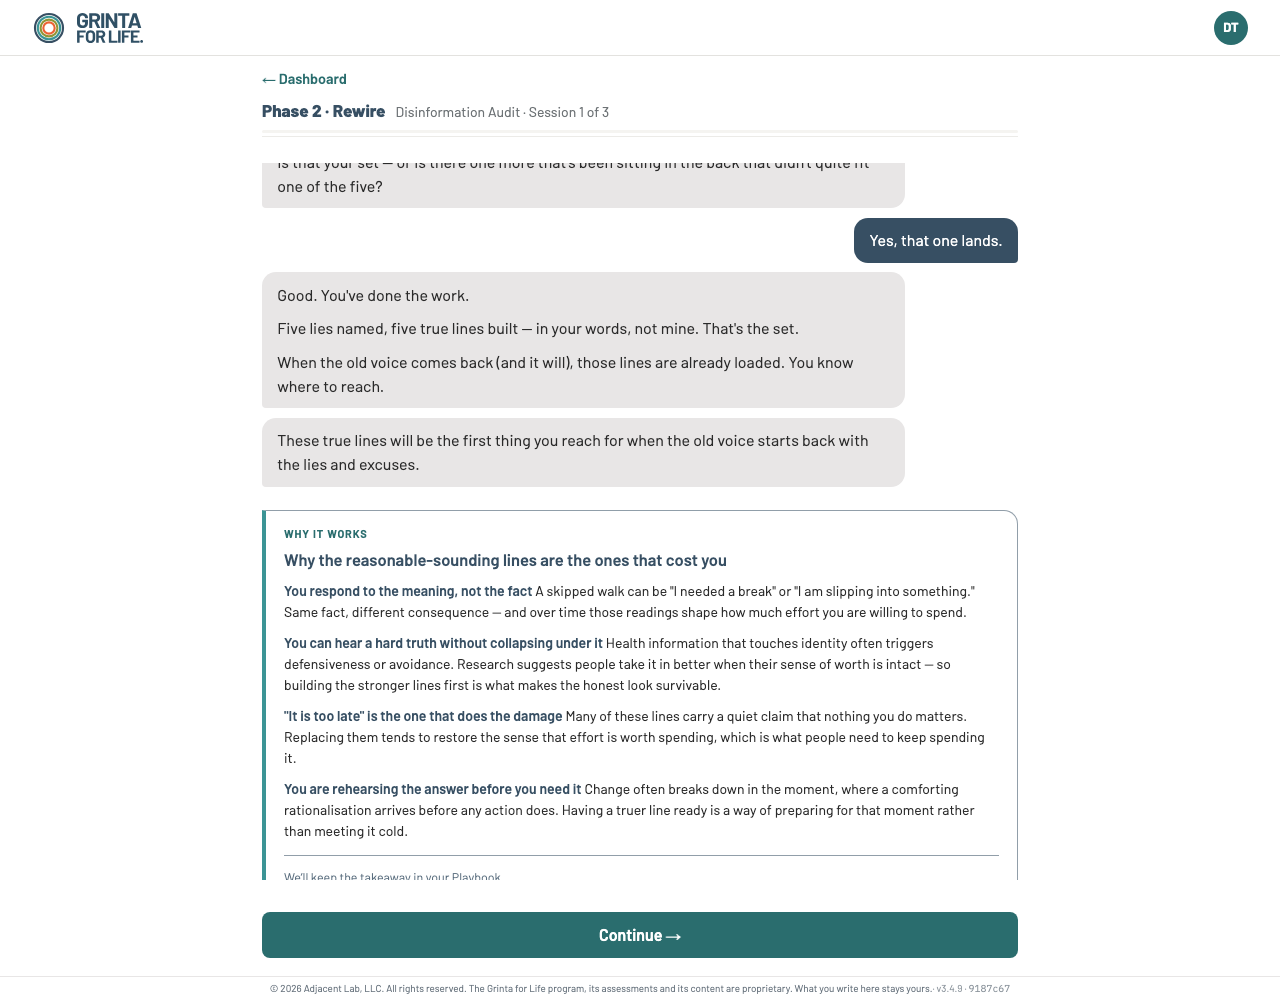
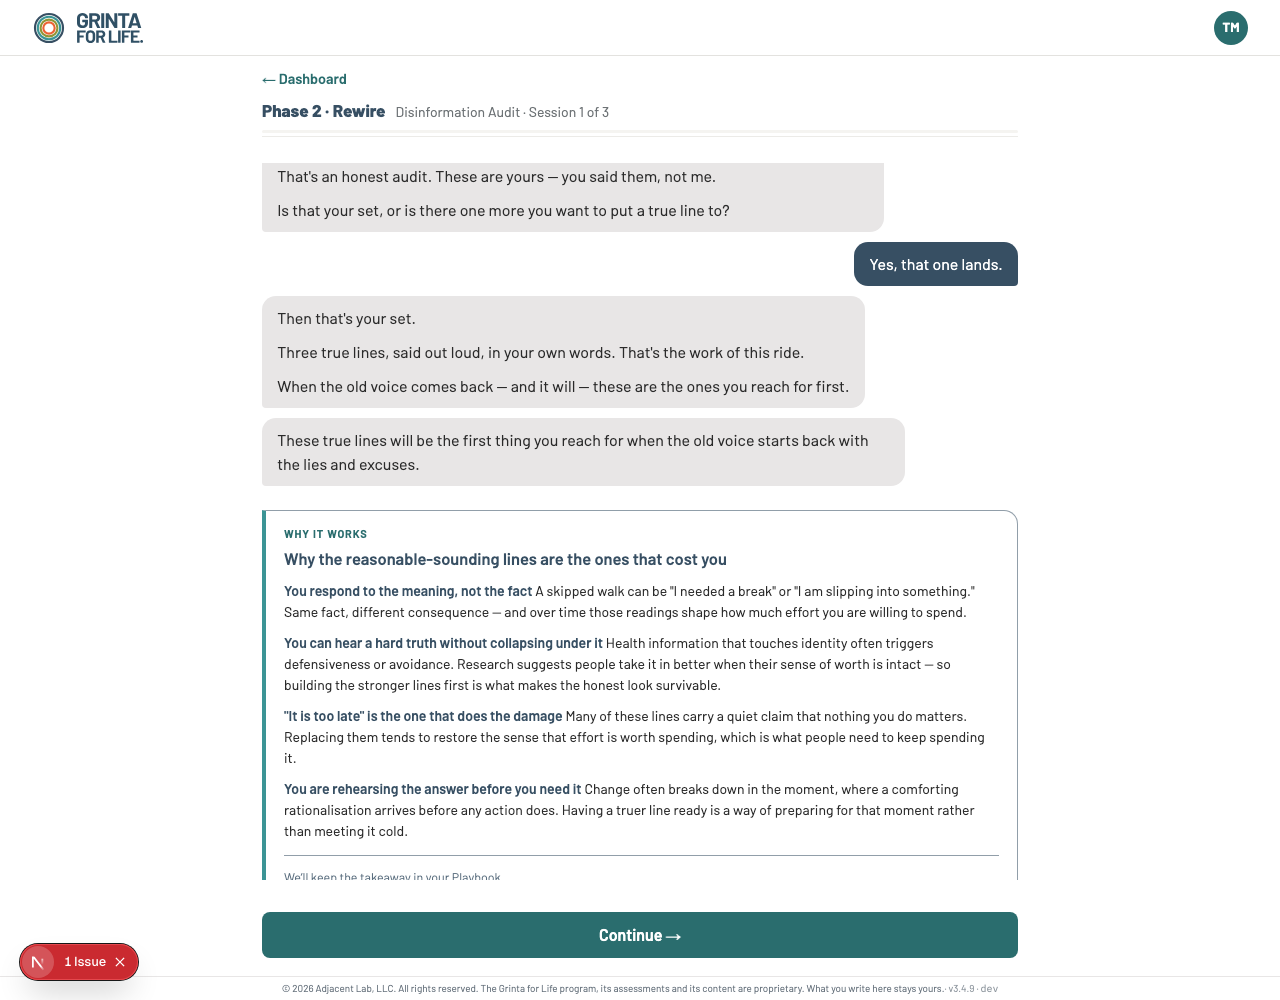
Leaving a Session waits for the filing; reading never does
Jay, 2026-08-18: 'some members may not be as patient/persistent as you in going back twice on
something that wasn't showing up.' That is the right standard. The card promises, in the
member's own view, that the takeaway is kept in their Playbook — a promise cannot be
EVENTUALLY true.

The filing was pure fire-and-forget on the reasoning that nobody should wait for bookkeeping.
Right about reading, wrong about leaving: tapping 'Got it' and immediately continuing raced
the write against the navigation, so a member could open their Playbook and find the takeaway
absent, then present later.

The gate still releases the instant they tap — nothing about reading changes. Only the click
that NAVIGATES waits, and almost always on an already-resolved promise. Capped at 4s so a
slow write can never trap someone at a finished Session; the server-side verification and
logging still catch a write that genuinely failed.

Wired in all three arcs that have a hand-home. Reconnect has none (it flows into the
ceremony) and does not file from the card.

diff --git a/app/workspace/use-teaching.ts b/app/workspace/use-teaching.ts
@@ -1,6 +1,6 @@
 'use client';
 
-import { useState } from 'react';
+import { useRef, useState } from 'react';
 import { teachingFor, teachingSourceLabel } from '../../lib/content/teaching.ts';
 import { keepScienceAction } from './actions.ts';
 import { notifyArtifactCommitted } from '../components/artifact-refresh.ts';
@@ -25,6 +25,11 @@ export type Teaching = {
   taught: boolean;
   /** Call from the Understand card's "Got it →". Releases the gate and files the read. */
   acknowledge: () => void;
+  /**
+   * Await the filing before leaving the Session. Resolves immediately when there is nothing in flight, which is
+   * the common case — the write has usually finished while the member was reading the card.
+   */
+  flushKeep: () => Promise<void>;
 };
 
 export function useTeaching(memberId: string, sessionKey: SessionKey, stage?: string | null): Teaching {
@@ -33,13 +38,36 @@ export function useTeaching(memberId: string, sessionKey: SessionKey, stage?: st
   // renders, which is a gate whose key is never issued.
   const [taught, setTaught] = useState(() => !teaches);
 
+  // The in-flight filing. Held so LEAVING can wait on it — see flushKeep.
+  const pending = useRef<Promise<unknown> | null>(null);
+
   const acknowledge = () => {
-    setTaught(true); // release immediately — the filing is not something the member should wait on
-    // Fire-and-forget. The action verifies its own write and logs server-side if the row vanished, so a silent
-    // drop surfaces in the logs rather than trapping someone at a finished Session.
-    void keepScienceAction(memberId, sessionKey, teachingSourceLabel(sessionKey, stage));
+    setTaught(true); // release immediately — the filing is not something the member should wait on to READ
+    // The action verifies its own write and logs server-side if the row vanished.
+    pending.current = keepScienceAction(memberId, sessionKey, teachingSourceLabel(sessionKey, stage))
+      .catch((e) => console.error('[teaching] keep failed', e));
     notifyArtifactCommitted();
   };
 
-  return { teaches, taught, acknowledge };
+  /**
+   * WHY LEAVING WAITS, WHEN READING DOES NOT (Jay, 2026-08-18).
+   *
+   * The filing used to be pure fire-and-forget, on the reasoning that a member should never wait for bookkeeping.
+   * That is right about reading and wrong about leaving: tapping "Got it" and immediately continuing raced the
+   * write against the navigation, so a member could open their Playbook and find the takeaway the card had just
+   * promised them absent — then present later. Jay: "some members may not be as patient/persistent as you in
+   * going back twice on something that wasn't showing up." A promise made in their own words on screen cannot be
+   * eventually true.
+   *
+   * So the gate still releases the instant they tap — nothing about reading changes — and only the click that
+   * NAVIGATES waits, almost always on an already-resolved promise. The 4s ceiling is deliberate: a member must
+   * never be trapped at a finished Session by a slow write, and the server-side verification + logging is what
+   * catches the write that genuinely failed.
+   */
+  const flushKeep = async () => {
+    if (!pending.current) return;
+    await Promise.race([pending.current, new Promise((r) => setTimeout(r, 4000))]);
+  };
+
+  return { teaches, taught, acknowledge, flushKeep };
 }

diff --git a/app/rewire/rewire-chat.tsx b/app/rewire/rewire-chat.tsx
@@ -44,7 +44,7 @@ export default function RewireChat({ memberId, session = 'w1' }: { memberId: str
   // NOTE the initial value: a session with nothing to teach starts ALREADY taught. Defaulting to false would gate
   // the hand-home behind a card that never renders — the checkpoint has no Understand beat, so onAcknowledge would
   // never fire and the member would sit at a finished session with no way out. A gate whose key is not issued.
-  const { teaches, taught, acknowledge } = useTeaching(memberId, sessionKey);
+  const { teaches, taught, acknowledge, flushKeep } = useTeaching(memberId, sessionKey);
   const started = useRef(false);
   const chatRef = useChatAutoscroll([messages.length, pending, expects, done]);
 
@@ -175,7 +175,11 @@ export default function RewireChat({ memberId, session = 'w1' }: { memberId: str
       {/* W-21 — the hand-home CTA: the session is saved; return the member to their companion-home (next step lit). */}
       {done && taught && (
         <div className="chat-continue">
-          <button type="button" onClick={() => notifySessionComplete()}>
+          {/* WAIT FOR THE FILING BEFORE LEAVING — see flushKeep in use-teaching.ts. Reading never waits; only
+              the click that navigates does, and almost always on an already-resolved promise. Without this the
+              write raced the navigation and a member could open their Playbook to find the takeaway the card had
+              just promised them missing. */}
+          <button type="button" onClick={() => { void flushKeep().then(() => notifySessionComplete()); }}>
             Continue →
           </button>
         </div>

diff --git a/app/rebuild/rebuild-chat.tsx b/app/rebuild/rebuild-chat.tsx
@@ -44,7 +44,7 @@ export default function RebuildChat({ memberId, session = 'b1' }: { memberId: st
   const [ceremony, setCeremony] = useState<RebuildCeremonyData | null>(null); // B4: set when the checkpoint reaches 'ceremony'
   const [error, setError] = useState<string | null>(null);
   const sessionKey: SessionKey = session === 'checkpoint' ? 'b4' : session;
-  const { teaches, taught, acknowledge } = useTeaching(memberId, sessionKey);
+  const { teaches, taught, acknowledge, flushKeep } = useTeaching(memberId, sessionKey);
   // The parting line, hoisted: submit() needs it when the Session teaches nothing, the render needs it when
   // the member acknowledges. Two copies of this conditional is how the two paths drift apart.
   const handHome = session === 'b3' ? REBUILD_B3_HAND_HOME : null;
@@ -174,7 +174,9 @@ export default function RebuildChat({ memberId, session = 'b1' }: { memberId: st
       {/* W-21 — the hand-home CTA: B3 routes into the pilot week (active on the dashboard); B1/B2 hand back home. */}
       {done && taught && (
         <div className="chat-continue">
-          <button type="button" onClick={() => notifySessionComplete()}>
+          {/* WAIT FOR THE FILING BEFORE LEAVING — see flushKeep in use-teaching.ts. Reading never waits; only
+              the click that navigates does, and almost always on an already-resolved promise. */}
+          <button type="button" onClick={() => { void flushKeep().then(() => notifySessionComplete()); }}>
             {session === 'b3' ? 'Start the week →' : 'Continue →'}
           </button>
         </div>

diff --git a/app/reclaim/reclaim-chat.tsx b/app/reclaim/reclaim-chat.tsx
@@ -44,7 +44,7 @@ export default function ReclaimChat({ memberId, session = 'c1' }: { memberId: st
   const [ceremony, setCeremony] = useState<ReclaimCeremonyData | null>(null); // C4: set when the checkpoint reaches 'ceremony'
   const [error, setError] = useState<string | null>(null);
   const sessionKey: SessionKey = session === 'checkpoint' ? 'c4' : session;
-  const { teaches, taught, acknowledge } = useTeaching(memberId, sessionKey);
+  const { teaches, taught, acknowledge, flushKeep } = useTeaching(memberId, sessionKey);
   // The parting line, hoisted: submit() needs it when the Session teaches nothing, the render needs it when
   // the member acknowledges. Two copies of this conditional is how the two paths drift apart.
   const handHome = session === 'c3' ? RECLAIM_C3_HAND_HOME : null;
@@ -176,7 +176,9 @@ export default function ReclaimChat({ memberId, session = 'c1' }: { memberId: st
       {/* W-21 — the hand-home CTA: C3 routes into its logging week; C1/C2 hand back to the companion-home. */}
       {done && taught && (
         <div className="chat-continue">
-          <button type="button" onClick={() => notifySessionComplete()}>
+          {/* WAIT FOR THE FILING BEFORE LEAVING — see flushKeep in use-teaching.ts. Reading never waits; only
+              the click that navigates does, and almost always on an already-resolved promise. */}
+          <button type="button" onClick={() => { void flushKeep().then(() => notifySessionComplete()); }}>
             {session === 'c3' ? 'Start the week →' : 'Continue →'}
           </button>
         </div>
